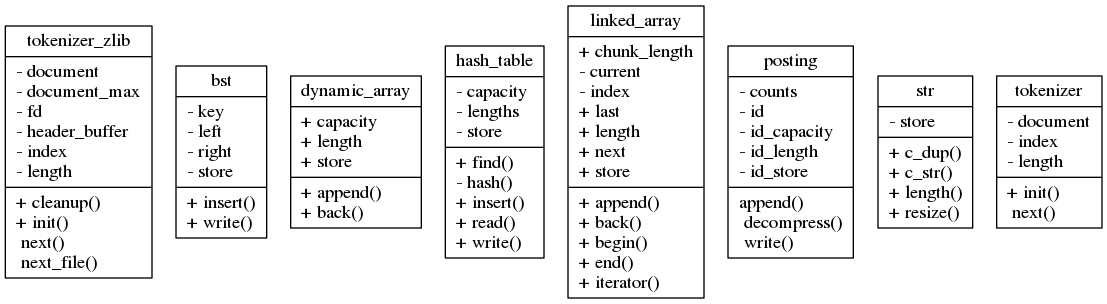
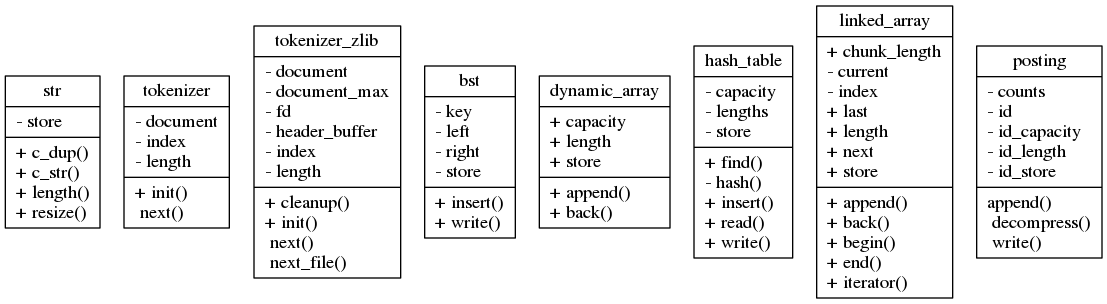
07.11.19

diff --git a/posts/deconstructing-cocomel/index.html b/posts/deconstructing-cocomel/index.html
@@ -13,11 +13,11 @@
     <meta name="twitter:card" content="summary"/>
 <meta name="twitter:title" content="Deconstructing the Cocomel search engine"/>
 <meta name="twitter:description" content="This is my attempt to understand Vaughan Kitchen&rsquo;s search engine.
- Source code https://github.com/vkitchen/cocomel  1 2 3 4 5 6 7 8 9 10 11 12 13 14 15 16 17 18  find -L -O3 $CWD \  -not -path &#39;*/build/*&#39; \  -and \  \( \  -name &#39;*.py&#39; \  -o -name &#39;*.php&#39; \  -o -name &#39;*.java&#39; \  -o -iname &#39;*.[CH]&#39; \  -o -name &#39;*."/>
+ Source code https://github.com/vkitchen/cocomel  Glossary 1 2 3 4 5 6 7 8 9 10 11 12 13 14 15 16 17 18 19 20 21 22 23 24 25 26 27  red-black tree RBT [self-balancing binary search tree] Each node of the binary tree has an extra bit, and that bit is often interpreted as the color of the node."/>
 
     <meta property="og:title" content="Deconstructing the Cocomel search engine" />
 <meta property="og:description" content="This is my attempt to understand Vaughan Kitchen&rsquo;s search engine.
- Source code https://github.com/vkitchen/cocomel  1 2 3 4 5 6 7 8 9 10 11 12 13 14 15 16 17 18  find -L -O3 $CWD \  -not -path &#39;*/build/*&#39; \  -and \  \( \  -name &#39;*.py&#39; \  -o -name &#39;*.php&#39; \  -o -name &#39;*.java&#39; \  -o -iname &#39;*.[CH]&#39; \  -o -name &#39;*." />
+ Source code https://github.com/vkitchen/cocomel  Glossary 1 2 3 4 5 6 7 8 9 10 11 12 13 14 15 16 17 18 19 20 21 22 23 24 25 26 27  red-black tree RBT [self-balancing binary search tree] Each node of the binary tree has an extra bit, and that bit is often interpreted as the color of the node." />
 <meta property="og:type" content="article" />
 <meta property="og:url" content="https://mullikine.github.io/posts/deconstructing-cocomel/" />
 <meta property="article:published_time" content="2019-11-06T00:00:00+13:00" />
@@ -122,7 +122,7 @@
   <title>clock</title>
   <circle cx="12" cy="12" r="10"></circle><polyline points="12 6 12 12 16 14"></polyline>
 </svg>
-          2 min read
+          4 min read
         </div><div>
           <svg xmlns="http://www.w3.org/2000/svg" width="24" height="24" viewBox="0 0 24 24" fill="none" stroke="currentColor" stroke-width="2" stroke-linecap="round" stroke-linejoin="round" class="icon icon-tag">
   <title>tag</title>
@@ -148,6 +148,71 @@
 <dt>Source code</dt>
 <dd><a href="https://github.com/vkitchen/cocomel">https://github.com/vkitchen/cocomel</a></dd>
 </dl>
+
+<h2 id="glossary">Glossary</h2>
+
+<div class="highlight"><div style="color:#f8f8f2;background-color:#272822;-moz-tab-size:4;-o-tab-size:4;tab-size:4">
+<table style="border-spacing:0;padding:0;margin:0;border:0;width:auto;overflow:auto;display:block;"><tr><td style="vertical-align:top;padding:0;margin:0;border:0;">
+<pre style="color:#f8f8f2;background-color:#272822;-moz-tab-size:4;-o-tab-size:4;tab-size:4"><code class="language-text" data-lang="text"><span style="margin-right:0.4em;padding:0 0.4em 0 0.4em;color:#7f7f7f"> 1
+</span><span style="margin-right:0.4em;padding:0 0.4em 0 0.4em;color:#7f7f7f"> 2
+</span><span style="margin-right:0.4em;padding:0 0.4em 0 0.4em;color:#7f7f7f"> 3
+</span><span style="margin-right:0.4em;padding:0 0.4em 0 0.4em;color:#7f7f7f"> 4
+</span><span style="margin-right:0.4em;padding:0 0.4em 0 0.4em;color:#7f7f7f"> 5
+</span><span style="margin-right:0.4em;padding:0 0.4em 0 0.4em;color:#7f7f7f"> 6
+</span><span style="margin-right:0.4em;padding:0 0.4em 0 0.4em;color:#7f7f7f"> 7
+</span><span style="margin-right:0.4em;padding:0 0.4em 0 0.4em;color:#7f7f7f"> 8
+</span><span style="margin-right:0.4em;padding:0 0.4em 0 0.4em;color:#7f7f7f"> 9
+</span><span style="margin-right:0.4em;padding:0 0.4em 0 0.4em;color:#7f7f7f">10
+</span><span style="margin-right:0.4em;padding:0 0.4em 0 0.4em;color:#7f7f7f">11
+</span><span style="margin-right:0.4em;padding:0 0.4em 0 0.4em;color:#7f7f7f">12
+</span><span style="margin-right:0.4em;padding:0 0.4em 0 0.4em;color:#7f7f7f">13
+</span><span style="margin-right:0.4em;padding:0 0.4em 0 0.4em;color:#7f7f7f">14
+</span><span style="margin-right:0.4em;padding:0 0.4em 0 0.4em;color:#7f7f7f">15
+</span><span style="margin-right:0.4em;padding:0 0.4em 0 0.4em;color:#7f7f7f">16
+</span><span style="margin-right:0.4em;padding:0 0.4em 0 0.4em;color:#7f7f7f">17
+</span><span style="margin-right:0.4em;padding:0 0.4em 0 0.4em;color:#7f7f7f">18
+</span><span style="margin-right:0.4em;padding:0 0.4em 0 0.4em;color:#7f7f7f">19
+</span><span style="margin-right:0.4em;padding:0 0.4em 0 0.4em;color:#7f7f7f">20
+</span><span style="margin-right:0.4em;padding:0 0.4em 0 0.4em;color:#7f7f7f">21
+</span><span style="margin-right:0.4em;padding:0 0.4em 0 0.4em;color:#7f7f7f">22
+</span><span style="margin-right:0.4em;padding:0 0.4em 0 0.4em;color:#7f7f7f">23
+</span><span style="margin-right:0.4em;padding:0 0.4em 0 0.4em;color:#7f7f7f">24
+</span><span style="margin-right:0.4em;padding:0 0.4em 0 0.4em;color:#7f7f7f">25
+</span><span style="margin-right:0.4em;padding:0 0.4em 0 0.4em;color:#7f7f7f">26
+</span><span style="margin-right:0.4em;padding:0 0.4em 0 0.4em;color:#7f7f7f">27
+</span></code></pre></td>
+<td style="vertical-align:top;padding:0;margin:0;border:0;">
+<pre style="color:#f8f8f2;background-color:#272822;-moz-tab-size:4;-o-tab-size:4;tab-size:4"><code class="language-text" data-lang="text">red-black tree
+RBT
+    [self-balancing binary search tree]
+
+    Each node of the binary tree has an extra
+    bit, and that bit is often interpreted as
+    the color of the node.
+
+    These color bits are used to ensure the
+    tree remains approximately balanced during
+    insertions and deletions.
+
+binary search tree
+BST
+    Node-based binary tree data structure
+    which has the following properties:
+
+    - The left subtree of a node contains only
+      nodes with keys lesser than the node’s
+      key.
+
+    - The right subtree of a node contains
+      only nodes with keys greater than the
+      node’s key.
+
+    - The left and right subtree each must
+      also be a binary search tree.</code></pre></td></tr></table>
+</div>
+</div>
+
+<h2 id="generated-uml">Generated UML</h2>
 
 <div class="highlight"><div style="color:#f8f8f2;background-color:#272822;-moz-tab-size:4;-o-tab-size:4;tab-size:4">
 <table style="border-spacing:0;padding:0;margin:0;border:0;width:auto;overflow:auto;display:block;"><tr><td style="vertical-align:top;padding:0;margin:0;border:0;">
@@ -188,7 +253,30 @@
 </span><span style="color:#ae81ff"></span>    &gt; <span style="color:#e6db74">&#34;</span>$destdir<span style="color:#e6db74">/cscope.files&#34;</span>
 
 $HOME/scripts/ctags --fields<span style="color:#f92672">=</span>+latinK+i -R -L ./cscope.files
-$MYGIT/Guad/tags2uml/tags2uml --members<span style="color:#f92672">=</span><span style="color:#ae81ff">1</span> --methods<span style="color:#f92672">=</span><span style="color:#ae81ff">1</span> --infile tags | dot-png uml</code></pre></td></tr></table>
+$MYGIT/Guad/tags2uml/tags2uml --members<span style="color:#f92672">=</span><span style="color:#ae81ff">1</span> --methods<span style="color:#f92672">=</span><span style="color:#ae81ff">1</span> --infile tags | tee uml.dot | dot-png uml</code></pre></td></tr></table>
+</div>
+</div>
+
+<div class="highlight"><div style="color:#f8f8f2;background-color:#272822;-moz-tab-size:4;-o-tab-size:4;tab-size:4">
+<table style="border-spacing:0;padding:0;margin:0;border:0;width:auto;overflow:auto;display:block;"><tr><td style="vertical-align:top;padding:0;margin:0;border:0;">
+<pre style="color:#f8f8f2;background-color:#272822;-moz-tab-size:4;-o-tab-size:4;tab-size:4"><code class="language-graphviz-dot" data-lang="graphviz-dot"><span style="margin-right:0.4em;padding:0 0.4em 0 0.4em;color:#7f7f7f">1
+</span><span style="margin-right:0.4em;padding:0 0.4em 0 0.4em;color:#7f7f7f">2
+</span><span style="margin-right:0.4em;padding:0 0.4em 0 0.4em;color:#7f7f7f">3
+</span><span style="margin-right:0.4em;padding:0 0.4em 0 0.4em;color:#7f7f7f">4
+</span><span style="margin-right:0.4em;padding:0 0.4em 0 0.4em;color:#7f7f7f">5
+</span><span style="margin-right:0.4em;padding:0 0.4em 0 0.4em;color:#7f7f7f">6
+</span><span style="margin-right:0.4em;padding:0 0.4em 0 0.4em;color:#7f7f7f">7
+</span><span style="margin-right:0.4em;padding:0 0.4em 0 0.4em;color:#7f7f7f">8
+</span></code></pre></td>
+<td style="vertical-align:top;padding:0;margin:0;border:0;">
+<pre style="color:#f8f8f2;background-color:#272822;-moz-tab-size:4;-o-tab-size:4;tab-size:4"><code class="language-graphviz-dot" data-lang="graphviz-dot">n6 [label=&#34;{str|- store\l|+ c_dup()\l+ c_str()\l+ length()\l+ resize()\l}&#34; style=filled fillcolor=&#34;#ffffff&#34; shape=&#34;record&#34;];
+n7 [label=&#34;{tokenizer|- document\l- index\l- length\l|+ init()\l  next()\l}&#34; style=filled fillcolor=&#34;#ffffff&#34; shape=&#34;record&#34;];
+n8 [label=&#34;{tokenizer_zlib|- document\l- document_max\l- fd\l- header_buffer\l- index\l- length\l|+ cleanup()\l+ init()\l  next()\l  next_file()\l}&#34; style=filled fillcolor=&#34;#ffffff&#34; shape=&#34;record&#34;];
+n1 [label=&#34;{bst|- key\l- left\l- right\l- store\l|+ insert()\l+ write()\l}&#34; style=filled fillcolor=&#34;#ffffff&#34; shape=&#34;record&#34;];
+n2 [label=&#34;{dynamic_array|+ capacity\l+ length\l+ store\l|+ append()\l+ back()\l}&#34; style=filled fillcolor=&#34;#ffffff&#34; shape=&#34;record&#34;];
+n3 [label=&#34;{hash_table|- capacity\l- lengths\l- store\l|+ find()\l- hash()\l+ insert()\l+ read()\l+ write()\l}&#34; style=filled fillcolor=&#34;#ffffff&#34; shape=&#34;record&#34;];
+n4 [label=&#34;{linked_array|+ chunk_length\l- current\l- index\l+ last\l+ length\l+ next\l+ store\l|+ append()\l+ back()\l+ begin()\l+ end()\l+ iterator()\l}&#34; style=filled fillcolor=&#34;#ffffff&#34; shape=&#34;record&#34;];
+n5 [label=&#34;{posting|- counts\l- id\l- id_capacity\l- id_length\l- id_store\l|  append()\l  decompress()\l  write()\l}&#34; style=filled fillcolor=&#34;#ffffff&#34; shape=&#34;record&#34;];</code></pre></td></tr></table>
 </div>
 </div>
 
@@ -203,29 +291,53 @@ $MYGIT/Guad/tags2uml/tags2uml --members<span style="color:#f92672">=</span><span
 <thead>
 <tr>
 <th>header</th>
+<th>purpose</th>
+<th>capacity</th>
+<th>used by</th>
+<th>instances</th>
 </tr>
 </thead>
 
 <tbody>
 <tr>
 <td>bst.h</td>
+<td>provide binary search tree</td>
+<td>∞</td>
+<td>hash_table.h</td>
+<td>every hash table</td>
 </tr>
 
 <tr>
 <td>dynamic_array.h</td>
+<td>provide array</td>
+<td>256 items</td>
+<td></td>
+<td>docNos</td>
 </tr>
 
 <tr>
 <td>hash_table.h</td>
+<td>provide hash table</td>
+<td>1 &lt;&lt; 16 == 65536 = 0x10000</td>
+<td></td>
+<td></td>
 </tr>
 
 <tr>
 <td>str.h</td>
+<td>provide strings</td>
+<td>∞</td>
+<td></td>
+<td></td>
 </tr>
 </tbody>
 </table>
 
 <h3 id="bst-dot-h"><code>bst.h</code></h3>
+
+<p>RBT and hash table is slow because it&rsquo;s not ordered.</p>
+
+<p>Use binary search tree instead.</p>
 
 <table>
 <thead>
@@ -528,6 +640,50 @@ $MYGIT/Guad/tags2uml/tags2uml --members<span style="color:#f92672">=</span><span
 </tr>
 </tbody>
 </table>
+
+<h2 id="instances">Instances</h2>
+
+<h3 id="dynamic-array-dot-h-1"><code>dynamic_array.h</code></h3>
+
+<h4 id="search-cli-dot-cpp"><code>search_cli.cpp</code></h4>
+
+<div class="highlight"><div style="color:#f8f8f2;background-color:#272822;-moz-tab-size:4;-o-tab-size:4;tab-size:4">
+<table style="border-spacing:0;padding:0;margin:0;border:0;width:auto;overflow:auto;display:block;"><tr><td style="vertical-align:top;padding:0;margin:0;border:0;">
+<pre style="color:#f8f8f2;background-color:#272822;-moz-tab-size:4;-o-tab-size:4;tab-size:4"><code class="language-cpp" data-lang="cpp"><span style="margin-right:0.4em;padding:0 0.4em 0 0.4em;color:#7f7f7f">1
+</span><span style="margin-right:0.4em;padding:0 0.4em 0 0.4em;color:#7f7f7f">2
+</span></code></pre></td>
+<td style="vertical-align:top;padding:0;margin:0;border:0;">
+<pre style="color:#f8f8f2;background-color:#272822;-moz-tab-size:4;-o-tab-size:4;tab-size:4"><code class="language-cpp" data-lang="cpp">dynamic_array<span style="color:#f92672">&lt;</span>std<span style="color:#f92672">::</span>pair<span style="color:#f92672">&lt;</span>uint32_t, uint32_t<span style="color:#f92672">&gt;&gt;</span> <span style="color:#f92672">*</span>docNos <span style="color:#f92672">=</span> <span style="color:#66d9ef">new</span> dynamic_array<span style="color:#f92672">&lt;</span>std<span style="color:#f92672">::</span>pair<span style="color:#f92672">&lt;</span>uint32_t, uint32_t<span style="color:#f92672">&gt;&gt;</span>();
+dynamic_array<span style="color:#f92672">&lt;</span>std<span style="color:#f92672">::</span>pair<span style="color:#f92672">&lt;</span>size_t, <span style="color:#66d9ef">double</span><span style="color:#f92672">&gt;&gt;</span> <span style="color:#f92672">*</span>result_list <span style="color:#f92672">=</span> search(index, line);
+</code></pre></td></tr></table>
+</div>
+</div>
+
+<h4 id="posting-dot-cpp"><code>posting.cpp</code></h4>
+
+<div class="highlight"><div style="color:#f8f8f2;background-color:#272822;-moz-tab-size:4;-o-tab-size:4;tab-size:4">
+<table style="border-spacing:0;padding:0;margin:0;border:0;width:auto;overflow:auto;display:block;"><tr><td style="vertical-align:top;padding:0;margin:0;border:0;">
+<pre style="color:#f8f8f2;background-color:#272822;-moz-tab-size:4;-o-tab-size:4;tab-size:4"><code class="language-cpp" data-lang="cpp"><span style="margin-right:0.4em;padding:0 0.4em 0 0.4em;color:#7f7f7f">1
+</span></code></pre></td>
+<td style="vertical-align:top;padding:0;margin:0;border:0;">
+<pre style="color:#f8f8f2;background-color:#272822;-moz-tab-size:4;-o-tab-size:4;tab-size:4"><code class="language-cpp" data-lang="cpp">dynamic_array<span style="color:#f92672">&lt;</span>std<span style="color:#f92672">::</span>pair<span style="color:#f92672">&lt;</span>size_t, <span style="color:#66d9ef">double</span><span style="color:#f92672">&gt;&gt;</span> <span style="color:#f92672">*</span>out <span style="color:#f92672">=</span> <span style="color:#66d9ef">new</span> dynamic_array<span style="color:#f92672">&lt;</span>std<span style="color:#f92672">::</span>pair<span style="color:#f92672">&lt;</span>size_t, <span style="color:#66d9ef">double</span><span style="color:#f92672">&gt;&gt;</span>;
+</code></pre></td></tr></table>
+</div>
+</div>
+
+<h4 id="search-dot-cpp"><code>search.cpp</code></h4>
+
+<p>When you decompress a posting.</p>
+
+<div class="highlight"><div style="color:#f8f8f2;background-color:#272822;-moz-tab-size:4;-o-tab-size:4;tab-size:4">
+<table style="border-spacing:0;padding:0;margin:0;border:0;width:auto;overflow:auto;display:block;"><tr><td style="vertical-align:top;padding:0;margin:0;border:0;">
+<pre style="color:#f8f8f2;background-color:#272822;-moz-tab-size:4;-o-tab-size:4;tab-size:4"><code class="language-cpp" data-lang="cpp"><span style="margin-right:0.4em;padding:0 0.4em 0 0.4em;color:#7f7f7f">1
+</span></code></pre></td>
+<td style="vertical-align:top;padding:0;margin:0;border:0;">
+<pre style="color:#f8f8f2;background-color:#272822;-moz-tab-size:4;-o-tab-size:4;tab-size:4"><code class="language-cpp" data-lang="cpp">dynamic_array<span style="color:#f92672">&lt;</span>std<span style="color:#f92672">::</span>pair<span style="color:#f92672">&lt;</span>size_t, <span style="color:#66d9ef">double</span><span style="color:#f92672">&gt;&gt;</span> <span style="color:#f92672">*</span>post <span style="color:#f92672">=</span> ((posting <span style="color:#f92672">*</span>)terms<span style="color:#f92672">-&gt;</span>store[i])<span style="color:#f92672">-&gt;</span>decompress();
+</code></pre></td></tr></table>
+</div>
+</div>
 
 <h2 id="building-the-index">building the index</h2>
 

diff --git a/index.html b/index.html
@@ -114,7 +114,7 @@
             <svg xmlns="http://www.w3.org/2000/svg" width="24" height="24" viewBox="0 0 24 24" fill="none" stroke="currentColor" stroke-width="2" stroke-linecap="round" stroke-linejoin="round" class="icon icon-clock">
   <title>clock</title>
   <circle cx="12" cy="12" r="10"></circle><polyline points="12 6 12 12 16 14"></polyline>
-</svg> 2 min read -
+</svg> 4 min read -
             Nov 6, 2019
           </span>
         </li>

diff --git a/posts/index.html b/posts/index.html
@@ -114,7 +114,7 @@
             <svg xmlns="http://www.w3.org/2000/svg" width="24" height="24" viewBox="0 0 24 24" fill="none" stroke="currentColor" stroke-width="2" stroke-linecap="round" stroke-linejoin="round" class="icon icon-clock">
   <title>clock</title>
   <circle cx="12" cy="12" r="10"></circle><polyline points="12 6 12 12 16 14"></polyline>
-</svg> 2 min read -
+</svg> 4 min read -
             Nov 6, 2019
           </span>
         </li>

diff --git a/tags/cpp/index.html b/tags/cpp/index.html
@@ -114,7 +114,7 @@
             <svg xmlns="http://www.w3.org/2000/svg" width="24" height="24" viewBox="0 0 24 24" fill="none" stroke="currentColor" stroke-width="2" stroke-linecap="round" stroke-linejoin="round" class="icon icon-clock">
   <title>clock</title>
   <circle cx="12" cy="12" r="10"></circle><polyline points="12 6 12 12 16 14"></polyline>
-</svg> 2 min read -
+</svg> 4 min read -
             Nov 6, 2019
           </span>
         </li>

diff --git a/tags/ir/index.html b/tags/ir/index.html
@@ -114,7 +114,7 @@
             <svg xmlns="http://www.w3.org/2000/svg" width="24" height="24" viewBox="0 0 24 24" fill="none" stroke="currentColor" stroke-width="2" stroke-linecap="round" stroke-linejoin="round" class="icon icon-clock">
   <title>clock</title>
   <circle cx="12" cy="12" r="10"></circle><polyline points="12 6 12 12 16 14"></polyline>
-</svg> 2 min read -
+</svg> 4 min read -
             Nov 6, 2019
           </span>
         </li>
